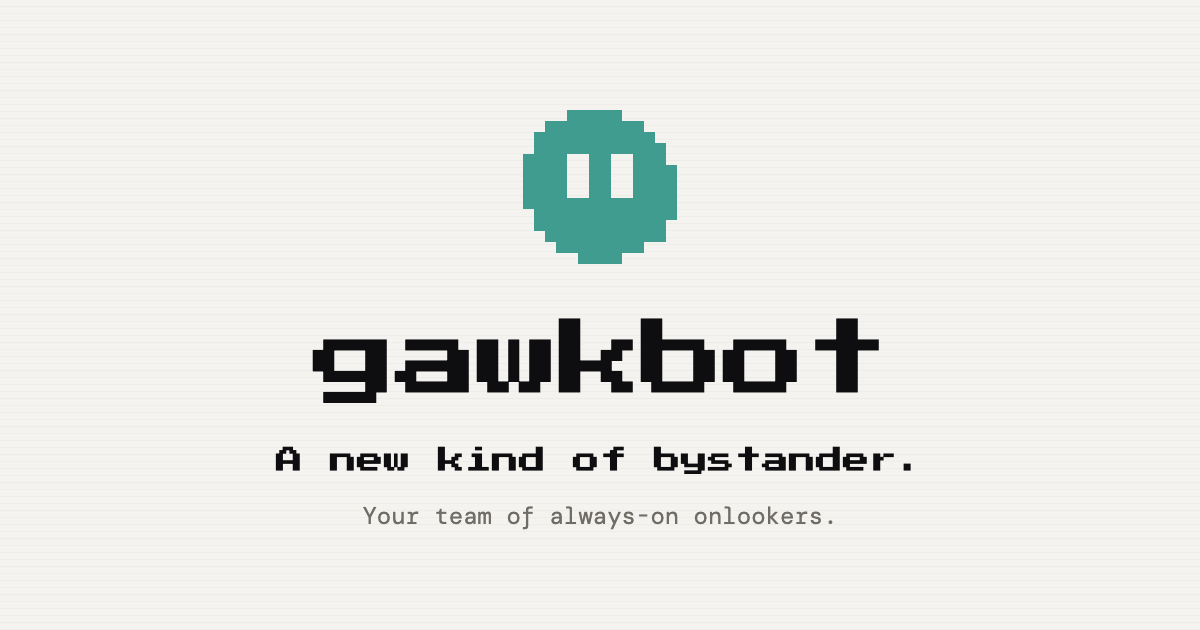
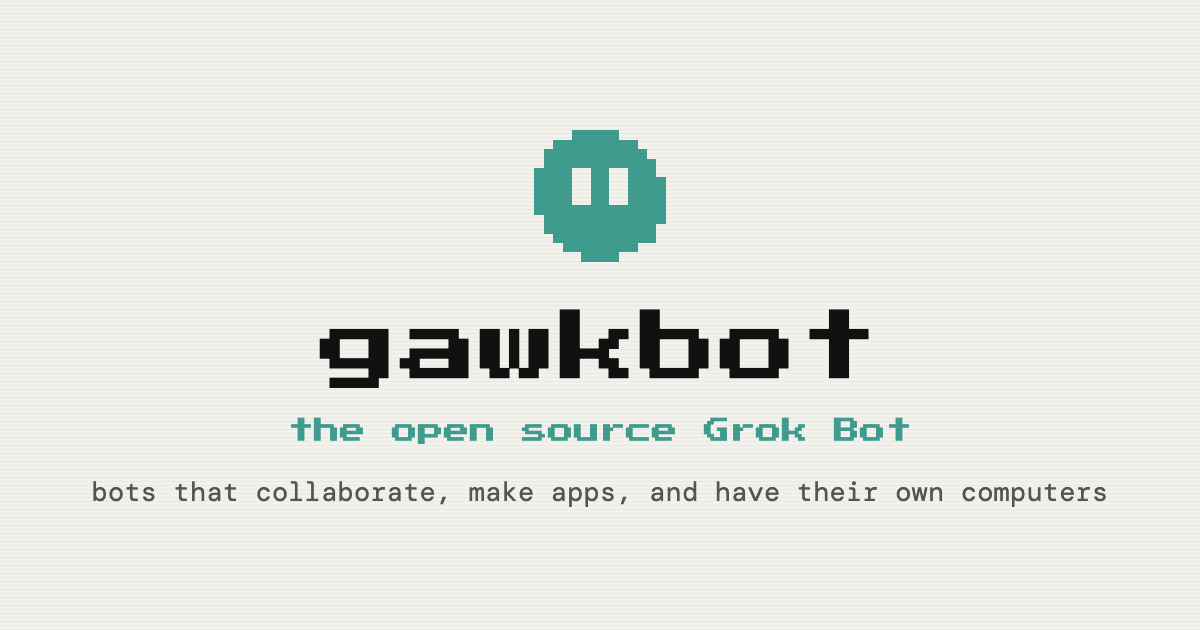
fix(website): social card says what gawkbot is, not the bystander gag
The link preview read "A new kind of bystander. Your team of always-on
onlookers." Replace both lines: the subtitle is "the open source Grok
Bot" in the brand green, and under it "bots that collaborate, make apps,
and have their own computers." Same mark, same paper ground, 1200×630.
The og:image URL moves to ?v=3 so crawlers re-scrape, and the image alt
text matches the new card.

Claude-Session: https://claude.ai/code/session_01V9n6uZhopKDdZoXQ37ry17

diff --git a/website/index.html b/website/index.html
@@ -12,16 +12,16 @@
 <meta property="og:url" content="https://gawk.bot">
 <meta property="og:site_name" content="gawkbot">
 <meta property="og:locale" content="en_US">
-<meta property="og:image" content="https://gawk.bot/og-image.png?v=2">
+<meta property="og:image" content="https://gawk.bot/og-image.png?v=3">
 <meta property="og:image:type" content="image/png">
 <meta property="og:image:width" content="1200">
 <meta property="og:image:height" content="630">
-<meta property="og:image:alt" content="The round green gawkbot mark over the words: gawkbot. A new kind of bystander.">
+<meta property="og:image:alt" content="The round green gawkbot mark over the words: gawkbot, the open source Grok Bot. Bots that collaborate, make apps, and have their own computers.">
 <meta name="twitter:card" content="summary_large_image">
 <meta name="twitter:title" content="gawkbot: the open source Grok Bot, bots you (almost) control">
 <meta name="twitter:description" content="gawkbot is the open source Grok Bot. gawkbots automate your menial work via AI models and build you microapps to manage the outcome, so that you have a false sense of control.">
-<meta name="twitter:image" content="https://gawk.bot/og-image.png?v=2">
-<meta name="twitter:image:alt" content="The round green gawkbot mark over the words: gawkbot. A new kind of bystander.">
+<meta name="twitter:image" content="https://gawk.bot/og-image.png?v=3">
+<meta name="twitter:image:alt" content="The round green gawkbot mark over the words: gawkbot, the open source Grok Bot. Bots that collaborate, make apps, and have their own computers.">
 <!-- theme-color cannot reference a CSS custom property, so these two are the
      only brand colors outside :root. They must track --paper in each mode. -->
 <meta name="theme-color" content="#F4F3EF" media="(prefers-color-scheme: light)">
